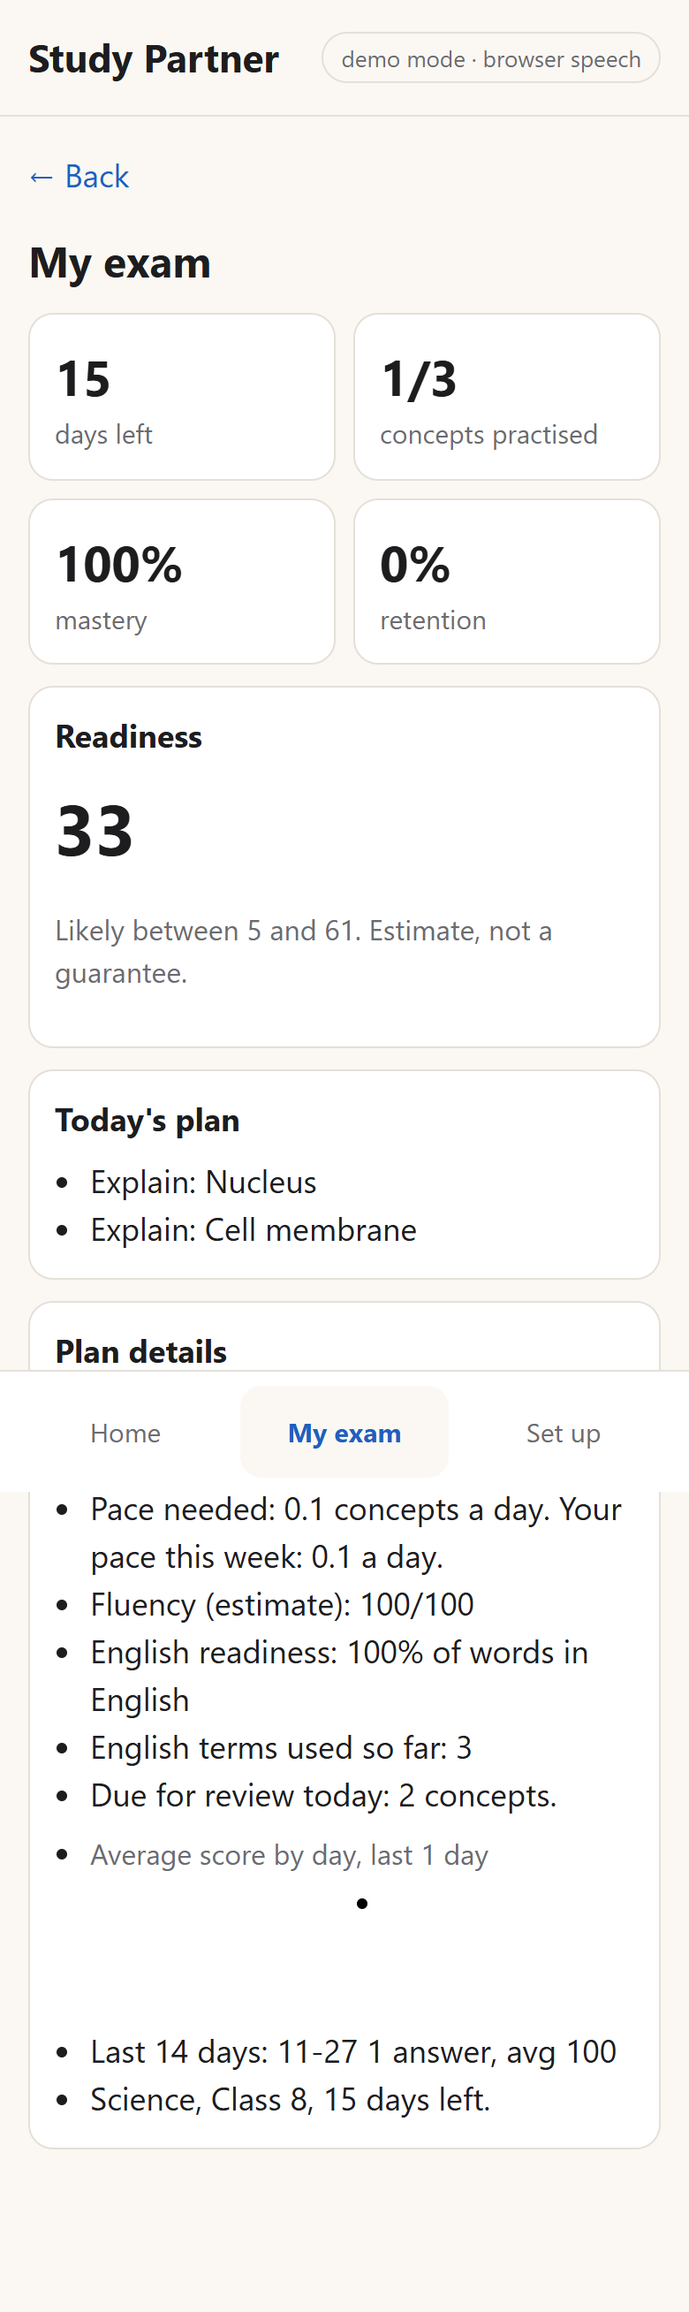
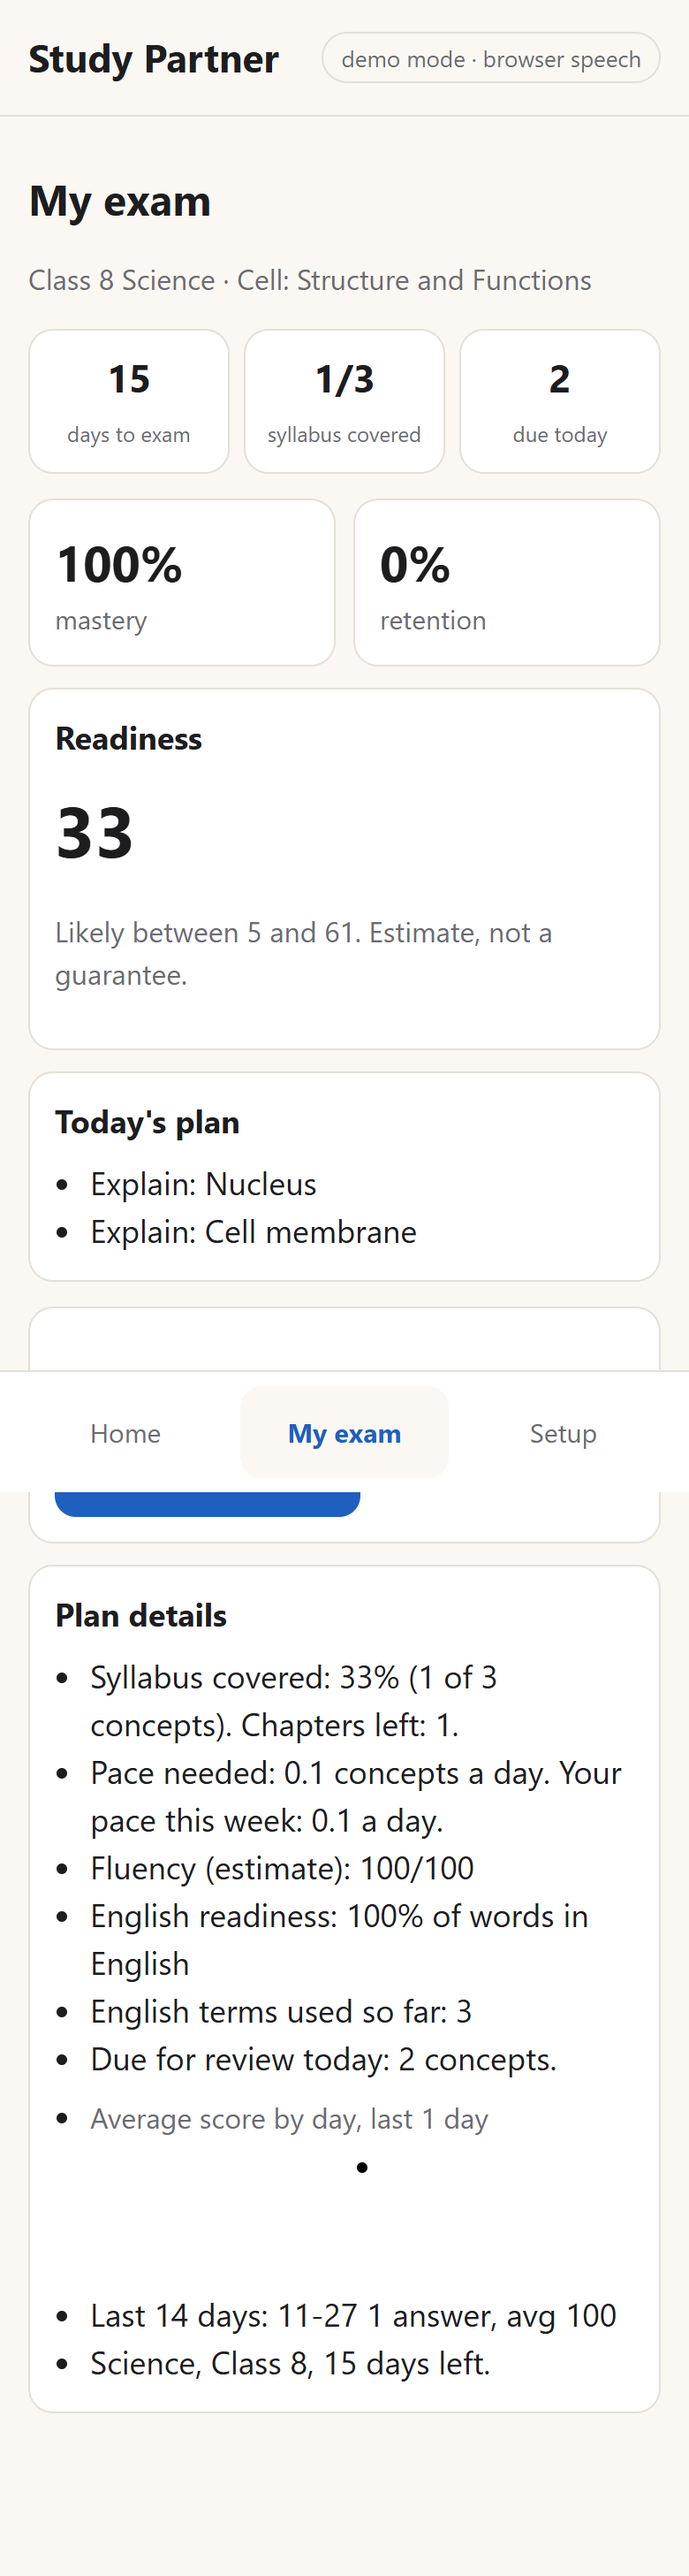
Rebuild layout: sign-in page, home with four study cards and next-up concept, My exam page, Setup with home language

diff --git a/public/app.js b/public/app.js
@@ -54,6 +54,7 @@ window.fetch = (input, opts = {}) => {
 function show(screen) {
   if (screen === 'continue') return continueStudy();
   document.querySelectorAll('.tabbar button').forEach((b) => b.classList.toggle('active', b.dataset.go === screen));
+  document.body.classList.toggle('no-tabs', screen === 'signin');
   if (screen === 'home') renderHome();
   document.querySelectorAll('.screen').forEach((s) => s.classList.toggle('active', s.id === `screen-${screen}`));
   if (screen === 'dashboard') loadDashboard();
@@ -292,6 +293,7 @@ async function loadDashboard() {
   const d = await res.json();
   renderExtra(d);
   $('d-days').textContent = d.daysLeft;
+  $('d-due').textContent = d.due;
   $('d-coverage').textContent = `${d.coverage.practised}/${d.coverage.total}`;
   $('d-mastery').textContent = `${d.mastery}%`;
   $('d-retention').textContent = `${d.retention}%`;
@@ -329,6 +331,17 @@ function insertExamScreen() {
     <section id="screen-setup" class="screen">
       <button class="back" data-go="home">&larr; Back</button>
       <h2>Set up my exam</h2>
+      <label class="field">
+        <span>Your home language (chosen once)</span>
+        <select id="language">
+          <option>Hindi</option>
+          <option>Tamil</option>
+          <option>Telugu</option>
+          <option>Kannada</option>
+          <option>Malayalam</option>
+        </select>
+      </label>
+      <h3>Set up my exam</h3>
       <p class="prompt">Tell me about your exam, in your own words. For example: "I have a quarterly science exam on 12 December, we use this textbook, chapters 3 to 7, and I have prepared about 40 percent."</p>
       <button id="setup-mic" class="mic" aria-label="Hold to speak">&#127897;</button>
       <p class="status" id="setup-status"></p>
@@ -434,7 +447,12 @@ function renderExtra(d) {
 // ---------- Email sign-in: type email and name, tap the link we send ----------
 
 async function setupAuth() {
-  const box = $('auth');
+  $('signin-form').addEventListener('submit', requestSignIn);
+  $('guest-btn').addEventListener('click', () => {
+    localStorage.setItem('studyPartnerGuest', '1');
+    show('home');
+  });
+
   // The student may have arrived from the confirmation link.
   const token = new URLSearchParams(location.search).get('verify');
   if (token) {
@@ -448,27 +466,21 @@ async function setupAuth() {
       if (!res.ok) throw new Error(data.error);
       localStorage.setItem('studyPartnerSession', data.token);
     } catch (err) {
-      box.textContent = err.message;
+      $('signin-note').textContent = err.message;
     }
     history.replaceState(null, '', '/');
   }
 
   const me = await (await fetch('/api/me')).json().catch(() => ({}));
   if (me.signedIn) {
-    box.innerHTML = `<span class="muted">Hi, ${escapeHtml(me.name)}</span> <button id="signout" class="link">Sign out</button>`;
+    $('auth').innerHTML = `<p>Signed in as <strong>${escapeHtml(me.name)}</strong></p><button id="signout" class="link">Sign out</button>`;
     $('signout').addEventListener('click', signOut);
+    show('home');
     return;
   }
-  box.innerHTML = `
-    <button id="signin-open" class="link">Sign in</button>
-    <form id="signin-form" class="signin" hidden>
-      <input id="signin-name" type="text" placeholder="First name" autocomplete="given-name">
-      <input id="signin-email" type="email" placeholder="Email" autocomplete="email" required>
-      <button type="submit">Send link</button>
-      <p id="signin-note" class="note"></p>
-    </form>`;
-  $('signin-open').addEventListener('click', () => { $('signin-form').hidden = false; });
-  $('signin-form').addEventListener('submit', requestSignIn);
+  $('auth').innerHTML = '<p class="muted">Guest: your progress is kept on this browser.</p><button id="signin-go" class="link">Sign in with email</button>';
+  $('signin-go').addEventListener('click', () => show('signin'));
+  show(localStorage.getItem('studyPartnerGuest') ? 'home' : 'signin');
 }
 
 async function requestSignIn(event) {
@@ -506,9 +518,6 @@ async function renderHome() {
       fetch('/api/dashboard').then((r) => r.json()),
       fetch('/api/due').then((r) => r.json()),
     ]);
-    $('strip-days').textContent = d.daysLeft;
-    $('strip-coverage').textContent = `${d.coverage.pct}%`;
-    $('strip-due').textContent = d.due;
     const next = due.due[0] || state.concepts[0];
     $('hero-name').textContent = next ? next.name : 'Start with any concept';
   } catch (err) {
@@ -734,8 +743,11 @@ function sparklineSvg(history) {
 
 // ---------- start ----------
 
-$('language').addEventListener('change', (event) => {
+// The language is chosen once, on the Setup page, and remembered.
+document.addEventListener('change', (event) => {
+  if (event.target.id !== 'language') return;
   state.language = event.target.value;
+  localStorage.setItem('studyPartnerLanguage', state.language);
 });
 
 (async function init() {
@@ -752,14 +764,12 @@ $('language').addEventListener('change', (event) => {
   setupAuth();
   try {
     const me = await (await fetch('/api/me')).json();
-    if (me.lastLanguage) {
-      state.language = me.lastLanguage;
-      $('language').value = me.lastLanguage;
-    }
+    if (me.lastLanguage) state.language = me.lastLanguage;
   } catch (err) {
     // Keep the default language if the server is unreachable.
   }
   insertExamScreen();
+  $('language').value = state.language;
   await loadChapter();
   attachPushToTalk('explain');
   attachPushToTalk('recall');

diff --git a/public/index.html b/public/index.html
@@ -1,4 +1,4 @@
-<!doctype html>
+<!doctype html>
 <html lang="en">
 <head>
   <meta charset="utf-8">
@@ -10,24 +10,24 @@
   <header class="top">
     <h1>Study Partner</h1>
     <span id="mode-badge" class="badge">demo</span>
-    <div id="auth" class="auth"></div>
   </header>
 
   <main>
-    <!-- Home: one clear next step, then the exam at a glance, then the four ways to study -->
+    <!-- Sign in: its own page, shown first -->
+    <section id="screen-signin" class="screen">
+      <h2>Sign in</h2>
+      <p class="muted">We'll email you a link. Tap it to start studying. No password.</p>
+      <form id="signin-form" class="signin-form">
+        <input id="signin-name" type="text" placeholder="First name" autocomplete="given-name">
+        <input id="signin-email" type="email" placeholder="Email address" autocomplete="email" required>
+        <button type="submit" class="primary">Send me a link</button>
+        <p id="signin-note" class="note"></p>
+      </form>
+      <button id="guest-btn" class="link">Continue as guest</button>
+    </section>
+
+    <!-- Home: four ways to study, then the next concept -->
     <section id="screen-home" class="screen active">
-      <div class="strip" aria-label="Exam at a glance">
-        <div><span id="strip-days">-</span><small>days to exam</small></div>
-        <div><span id="strip-coverage">-</span><small>syllabus covered</small></div>
-        <div><span id="strip-due">-</span><small>due today</small></div>
-      </div>
-
-      <button class="hero" data-go="continue">
-        <small>Continue</small>
-        <strong id="hero-name">Loading…</strong>
-        <span>Explain this next, in your own words</span>
-      </button>
-
       <div class="cards">
         <button class="card-btn" data-go="explain"><span class="ico" aria-hidden="true">&#127897;</span>Explain</button>
         <button class="card-btn" data-go="recall"><span class="ico" aria-hidden="true">&#129504;</span>Recall</button>
@@ -35,20 +35,14 @@
         <button class="card-btn" data-go="dashboard"><span class="ico" aria-hidden="true">&#128197;</span>My exam</button>
       </div>
 
-      <label class="field">
-        <span>Your home language</span>
-        <select id="language">
-          <option>Hindi</option>
-          <option>Tamil</option>
-          <option>Telugu</option>
-          <option>Kannada</option>
-          <option>Malayalam</option>
-        </select>
-      </label>
-      <p id="chapter-title" class="muted"></p>
+      <button class="hero" data-go="continue">
+        <small>Next up</small>
+        <strong id="hero-name">Loading…</strong>
+        <span>Explain it in your own words</span>
+      </button>
     </section>
 
-    <!-- Explain and recall share the same mic and text input -->
+    <!-- Explain -->
     <section id="screen-explain" class="screen">
       <button class="back" data-go="home">&larr; Back</button>
       <h2 id="explain-heading">Explain a concept</h2>
@@ -64,6 +58,7 @@
       <div id="explain-result" class="result" hidden></div>
     </section>
 
+    <!-- Recall -->
     <section id="screen-recall" class="screen">
       <button class="back" data-go="home">&larr; Back</button>
       <h2>Practise recall</h2>
@@ -79,13 +74,16 @@
       <div id="recall-result" class="result" hidden></div>
     </section>
 
-    <!-- Dashboard -->
+    <!-- My exam: days, coverage, due today, then readiness and plan -->
     <section id="screen-dashboard" class="screen">
-      <button class="back" data-go="home">&larr; Back</button>
       <h2>My exam</h2>
+      <p id="chapter-title" class="muted"></p>
+      <div class="strip" aria-label="Exam at a glance">
+        <div><span id="d-days">-</span><small>days to exam</small></div>
+        <div><span id="d-coverage">-</span><small>syllabus covered</small></div>
+        <div><span id="d-due">-</span><small>due today</small></div>
+      </div>
       <div class="tiles">
-        <div class="tile"><span id="d-days">-</span><small>days left</small></div>
-        <div class="tile"><span id="d-coverage">-</span><small>concepts practised</small></div>
         <div class="tile"><span id="d-mastery">-</span><small>mastery</small></div>
         <div class="tile"><span id="d-retention">-</span><small>retention</small></div>
       </div>
@@ -98,13 +96,14 @@
         <h3>Today's plan</h3>
         <ul id="d-plan"></ul>
       </div>
+      <div id="auth" class="card account"></div>
     </section>
   </main>
 
   <nav class="tabbar" aria-label="Main">
     <button data-go="home" class="active">Home</button>
     <button data-go="dashboard">My exam</button>
-    <button data-go="setup">Set up</button>
+    <button data-go="setup">Setup</button>
   </nav>
 
   <script src="/app.js"></script>

diff --git a/server.js b/server.js
@@ -122,7 +122,12 @@ async function sendSignInEmail(to, link) {
              <p>The link works once and expires in ${LINK_MINUTES} minutes. If you did not ask for it, ignore this email.</p>`,
     }),
   });
-  if (!res.ok) throw new Error(`Email sending failed with status ${res.status}`);
+  if (!res.ok) {
+    // Log Resend's reason (never the key). The student sees only a generic message.
+    const reason = await res.text().catch(() => '');
+    console.error(`Resend rejected the email with status ${res.status}: ${reason}`);
+    throw new Error(`Email sending failed with status ${res.status}`);
+  }
   return true;
 }
 

diff --git a/public/style.css b/public/style.css
@@ -228,3 +228,12 @@ body { padding-bottom: 76px; }
 
 .auth { font-size: 13px; }
 .auth .link { background: none; color: var(--accent); min-height: 0; padding: 2px 4px; font-size: 13px; }
+
+/* Layout v3: sign-in page, home, My exam, Setup */
+body.no-tabs .tabbar { display: none; }
+body.no-tabs { padding-bottom: 0; }
+.signin-form { display: flex; flex-direction: column; gap: 10px; margin: 16px 0; }
+.signin-form .primary { min-height: 52px; font-size: 18px; }
+.cards { display: grid; grid-template-columns: 1fr 1fr; gap: 12px; margin-top: 8px; }
+.hero { margin-top: 18px; }
+.account { margin-top: 14px; }
